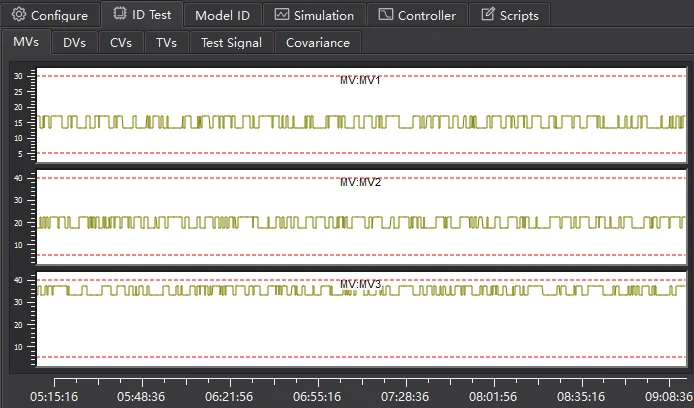
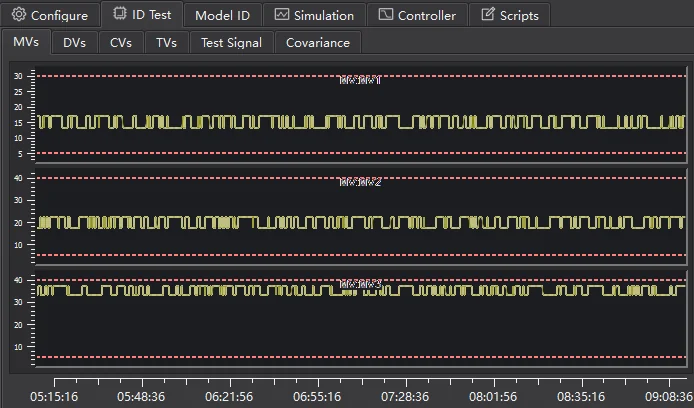
Darken the MPC trend plots in the KeelDeck screenshot
Only the three white plot areas are recoloured (greys swapped to a dark
neutral that matches the app's panels; curves and limit lines keep
their colours). Image URLs get ?v=2 so cached copies are replaced.

diff --git a/index.html b/index.html
@@ -104,8 +104,8 @@
               <a class="deck-shot-img fit-contain is-active" data-shot="rto" href="/img/keeldeck-rto-full.webp" target="_blank" rel="noopener" title="View full screenshot">
                 <img src="/img/keeldeck-rto-card.webp" width="760" height="465" alt="A real-time optimization (RTO) client built on KeelDeck: process flowsheet" loading="lazy" decoding="async" />
               </a>
-              <a class="deck-shot-img" data-shot="mpc" href="/img/keeldeck-full.webp" target="_blank" rel="noopener" title="View full screenshot">
-                <img src="/img/keeldeck-card.webp" width="694" height="408" alt="An advanced process control (MPC) client built on KeelDeck: identification test trends for three manipulated variables" loading="lazy" decoding="async" />
+              <a class="deck-shot-img" data-shot="mpc" href="/img/keeldeck-full.webp?v=2" target="_blank" rel="noopener" title="View full screenshot">
+                <img src="/img/keeldeck-card.webp?v=2" width="694" height="408" alt="An advanced process control (MPC) client built on KeelDeck: identification test trends for three manipulated variables" loading="lazy" decoding="async" />
               </a>
             </div>
           </li>

diff --git a/zh/index.html b/zh/index.html
@@ -91,8 +91,8 @@
               <a class="deck-shot-img fit-contain is-active" data-shot="rto" href="/img/keeldeck-rto-full.webp" target="_blank" rel="noopener" title="查看完整截图">
                 <img src="/img/keeldeck-rto-card.webp" width="760" height="465" alt="基于 KeelDeck 的实时优化（RTO）客户端：工艺流程图" loading="lazy" decoding="async" />
               </a>
-              <a class="deck-shot-img" data-shot="mpc" href="/img/keeldeck-full.webp" target="_blank" rel="noopener" title="查看完整截图">
-                <img src="/img/keeldeck-card.webp" width="694" height="408" alt="基于 KeelDeck 的先进控制（MPC）客户端：辨识测试中三个操纵变量的趋势曲线" loading="lazy" decoding="async" />
+              <a class="deck-shot-img" data-shot="mpc" href="/img/keeldeck-full.webp?v=2" target="_blank" rel="noopener" title="查看完整截图">
+                <img src="/img/keeldeck-card.webp?v=2" width="694" height="408" alt="基于 KeelDeck 的先进控制（MPC）客户端：辨识测试中三个操纵变量的趋势曲线" loading="lazy" decoding="async" />
               </a>
             </div>
           </li>
